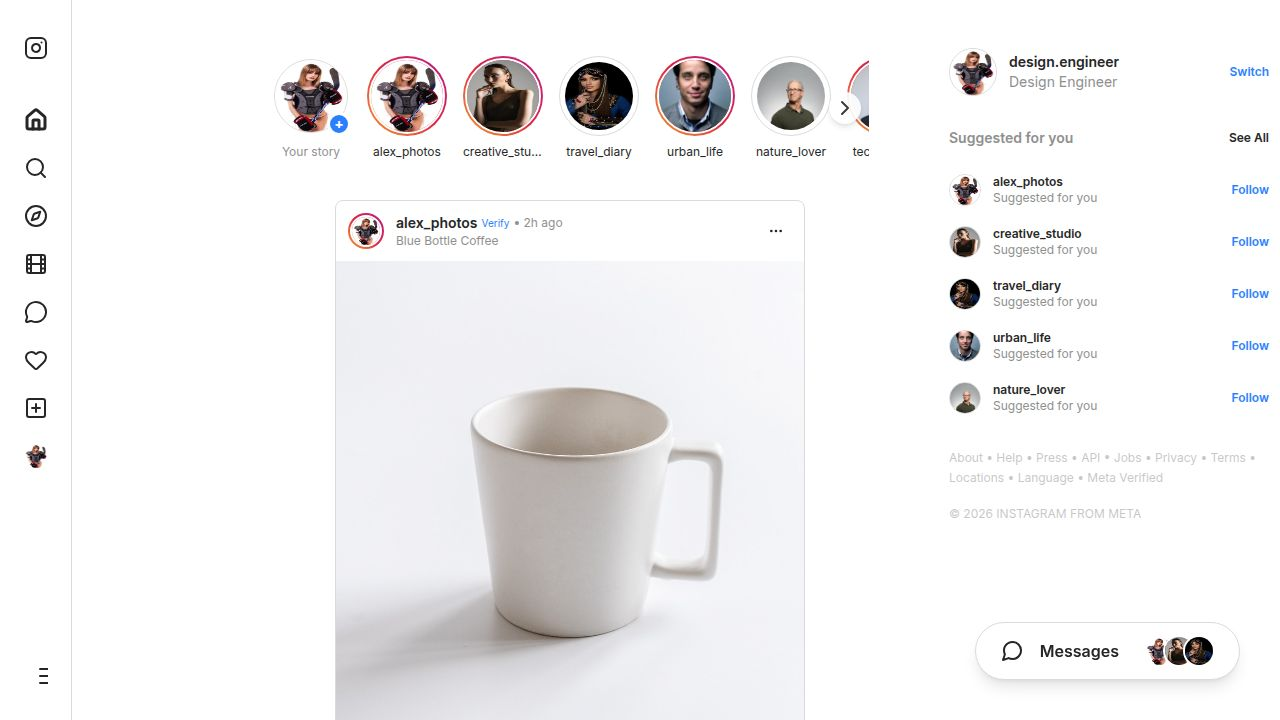
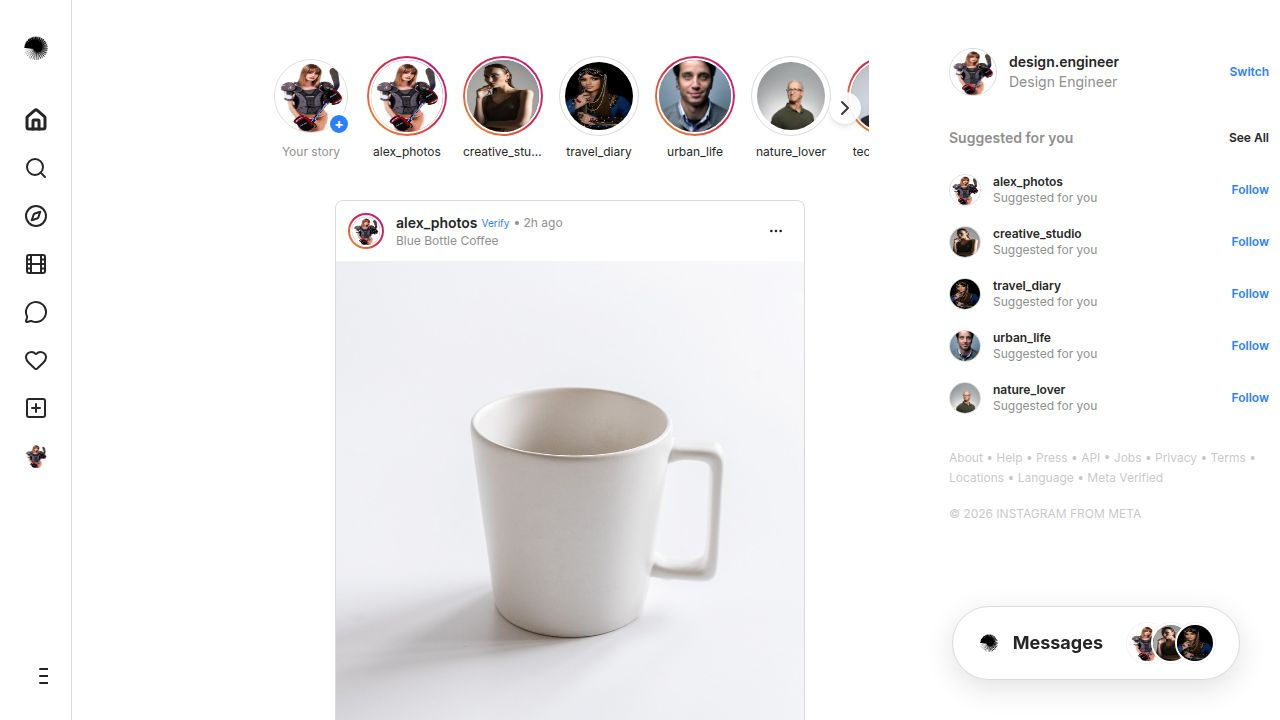
Adjust sidebar and message pill behavior for consistent user experience
Modify `FloatingMessages.tsx` to hide the message pill on the `/messages` page and when a post modal is open. Update `Sidebar.tsx` to use a new logo image for both collapsed and expanded states, replacing the previous SVG and `Instagram` icon. Update `index.css` to hide the floating messages pill when scrolling is locked.

Replit-Commit-Author: Agent
Replit-Commit-Session-Id: 7474228d-dd8b-4e1f-a194-4373e2afbe52
Replit-Commit-Checkpoint-Type: full_checkpoint
Replit-Commit-Event-Id: 86512de0-1826-4506-a61b-81bd5752615a
Replit-Commit-Screenshot-Url: https://storage.googleapis.com/screenshot-production-us-central1/aac1f84c-6fe8-432c-850f-5f38e96e74f6/7474228d-dd8b-4e1f-a194-4373e2afbe52/2yC67xk
Replit-Helium-Checkpoint-Created: true

Changed region(s): [[0.75, 0.8556, 0.9688, 0.9472], [0.0, 0.0306, 0.0625, 0.0917]]

diff --git a/client/src/components/layout/Sidebar.tsx b/client/src/components/layout/Sidebar.tsx
@@ -9,15 +9,10 @@ import {
   Heart,
   PlusSquare,
   Menu,
-  Instagram,
-  Settings,
-  Activity,
-  Bookmark,
-  Sun,
-  LogOut
 } from "lucide-react";
 import { Avatar, AvatarFallback, AvatarImage } from "@/components/ui/avatar";
 import { CURRENT_USER } from "@/lib/data";
+import logoImage from "@assets/shape-98_1771532730970.png";
 
 export function Sidebar() {
   const [location] = useLocation();
@@ -40,18 +35,16 @@ export function Sidebar() {
 
   return (
     <div className="hidden md:flex flex-col h-full w-[72px] hover:w-[244px] border-r border-sidebar-border bg-sidebar text-sidebar-foreground fixed left-0 top-0 p-3 pt-8 pb-5 z-50 transition-all duration-300 ease-in-out group/sidebar overflow-hidden">
-      <div className="px-3 mb-8 h-8 flex items-center">
+      <div className="px-3 mb-8 h-8 flex items-center relative">
         {/* Full Logo - visible on hover */}
-        <div className="hidden group-hover/sidebar:block w-full transition-opacity duration-300 animate-in fade-in zoom-in-95">
-           {/* Simple text SVG logo replacement */}
-           <svg viewBox="0 0 103 29" className="h-8 w-auto fill-foreground">
-              <path d="M50.4 3.7c-5.8 0-10.4 4.5-10.4 10.2s4.6 10.2 10.4 10.2 10.4-4.5 10.4-10.2-4.6-10.2-10.4-10.2zm0 18.2c-4.5 0-8.1-3.6-8.1-8s3.6-8 8.1-8 8.1 3.6 8.1 8-3.6 8-8.1 8zm-22.9 8V18.6h2.8v11.3h2.6V18.6h2.9v-2.3H27.5v13.6h-2.9zm57.2-10c0-1.8-.7-2.9-2.2-2.9-1.2 0-2 .7-2.4 1.7v-1.5h-2.4v9.8h2.4v-5.6c0-1.2.6-2 1.5-2 .9 0 1.4.6 1.4 1.6v6h2.4v-6.3c0-1.9-1-2.9-2.6-2.9-.8 0-1.5.3-2.1.8V15h-2.1l-.3 1.5h2.4v9.8h2.4v-6.4zM10.7 29.9h-2.4v-1.9c-.7 1.4-2.1 2.2-4 2.2-3.3 0-5.8-2.6-5.8-6.1 0-3.4 2.5-6.1 5.8-6.1 1.9 0 3.3.8 4 2.1v-1.9h2.4v11.7zm-6.2-2.1c2 0 3.8-1.6 3.8-3.9 0-2.4-1.7-4-3.8-4-2 0-3.8 1.6-3.8 4 0 2.3 1.7 3.9 3.8 3.9zm13.1 2.1H15v-1.9c-.7 1.4-2.1 2.2-4 2.2-3.3 0-5.8-2.6-5.8-6.1 0-3.4 2.5-6.1 5.8-6.1 1.9 0 3.3.8 4 2.1v-1.9h2.4v11.7zm-6.1-2.1c2 0 3.8-1.6 3.8-3.9 0-2.4-1.7-4-3.8-4-2 0-3.8 1.6-3.8 4 0 2.3 1.7 3.9 3.8 3.9zm67.1-2.7v-2.1h-4.6v1.4c0 .9.6 1.4 1.9 1.4 1.1 0 1.8-.3 1.8-.9 0-.4-.3-.7-1.1-.9l-1.6-.4c-1.8-.5-2.7-1.3-2.7-2.7 0-1.7 1.5-2.9 3.8-2.9 2.2 0 3.7 1.2 3.8 3h-2.3c-.1-.7-.6-1.1-1.6-1.1-1 0-1.5.5-1.5 1 0 .4.3.7 1.1.9l1.6.4c1.9.5 2.8 1.4 2.8 2.8 0 1.8-1.5 3-3.9 3-2.4 0-4-1.2-4.1-3.1h2.3c.1.9.8 1.3 1.9 1.3 1 0 1.5-.4 1.5-1.1zM65.7 18.6h4.6v2.2H68v7.6h-2.3v-7.6h-1.6v-2.2zM88.8 30l-2.7-7.6h-2.7L80.7 30h2.6l.5-1.5h3.4l.5 1.5h2.6zm-4.3-3.4l1.2-3.6 1.2 3.6h-2.4z"/>
-           </svg>
+        <div className="hidden group-hover/sidebar:flex w-full items-center gap-3 transition-opacity duration-300 animate-in fade-in zoom-in-95">
+           <img src={logoImage} alt="Logo" className="h-8 w-auto dark:invert" />
+           <span className="font-serif text-xl font-bold tracking-tight select-none">Messages</span>
         </div>
         
         {/* Icon Logo - visible by default, hidden on hover */}
-        <div className="block group-hover/sidebar:hidden mx-auto transition-opacity duration-300 absolute left-3 right-3 flex justify-center">
-            <Instagram className="h-6 w-6 transition-transform hover:scale-105" />
+        <div className="block group-hover/sidebar:hidden mx-auto transition-opacity duration-300 absolute left-0 right-0 flex justify-center">
+            <img src={logoImage} alt="Logo" className="h-8 w-8 object-contain transition-transform hover:scale-105 dark:invert" />
         </div>
       </div>
 

diff --git a/client/src/components/layout/FloatingMessages.tsx b/client/src/components/layout/FloatingMessages.tsx
@@ -1,28 +1,21 @@
-import { MessageCircle } from "lucide-react";
 import { Avatar, AvatarFallback, AvatarImage } from "@/components/ui/avatar";
 import { USERS } from "@/lib/data";
+import { useLocation } from "wouter";
+import logoImage from "@assets/shape-98_1771532730970.png";
 
 export function FloatingMessages() {
+  const [location] = useLocation();
   const messageUsers = USERS.slice(0, 3); // Get first 3 users for the stack
 
+  if (location === "/messages") return null;
+
   return (
-    <div className="fixed bottom-10 right-10 z-[100] animate-in fade-in slide-in-from-bottom-4 duration-500">
+    <div id="floating-messages" className="fixed bottom-10 right-10 z-[100] animate-in fade-in slide-in-from-bottom-4 duration-500">
       <div className="bg-white dark:bg-zinc-900 rounded-full shadow-[0_8px_30px_rgb(0,0,0,0.12)] border border-border py-4 px-6 flex items-center gap-4 cursor-pointer hover:scale-105 transition-transform min-w-[280px] justify-between">
         
         <div className="flex items-center gap-3">
-            {/* Icon - Using the Send/Paper Plane icon style from Instagram */}
-            <svg 
-                viewBox="0 0 24 24" 
-                fill="none" 
-                stroke="currentColor" 
-                strokeWidth="2" 
-                strokeLinecap="round" 
-                strokeLinejoin="round" 
-                className="h-6 w-6"
-            >
-                <line x1="22" y1="2" x2="11" y2="13"></line>
-                <polygon points="22 2 15 22 11 13 2 9 22 2"></polygon>
-            </svg>
+            {/* Using the newly provided logo instead of the SVG icon */}
+            <img src={logoImage} alt="Messages" className="h-6 w-6 dark:invert" />
 
             {/* Text */}
             <span className="font-bold text-lg">Messages</span>
@@ -31,7 +24,7 @@ export function FloatingMessages() {
         {/* Avatar Stack */}
         <div className="flex items-center -space-x-4 pl-2">
           {messageUsers.map((user, i) => (
-            <Avatar key={user.id} className="h-10 w-10 border-2 border-white dark:border-zinc-900 ring-1 ring-black/5 dark:ring-white/10">
+            <Avatar key={user.id} className="h-10 w-10 border-2 border-white dark:bg-zinc-900 dark:border-zinc-900 ring-1 ring-black/5 dark:ring-white/10">
               <AvatarImage src={user.avatar} />
               <AvatarFallback>{user.username[0]}</AvatarFallback>
             </Avatar>

diff --git a/client/src/index.css b/client/src/index.css
@@ -184,4 +184,8 @@
   .story-ring-inner {
     @apply border-2 border-background rounded-full;
   }
+  
+  body[data-scroll-locked] #floating-messages {
+    display: none !important;
+  }
 }
